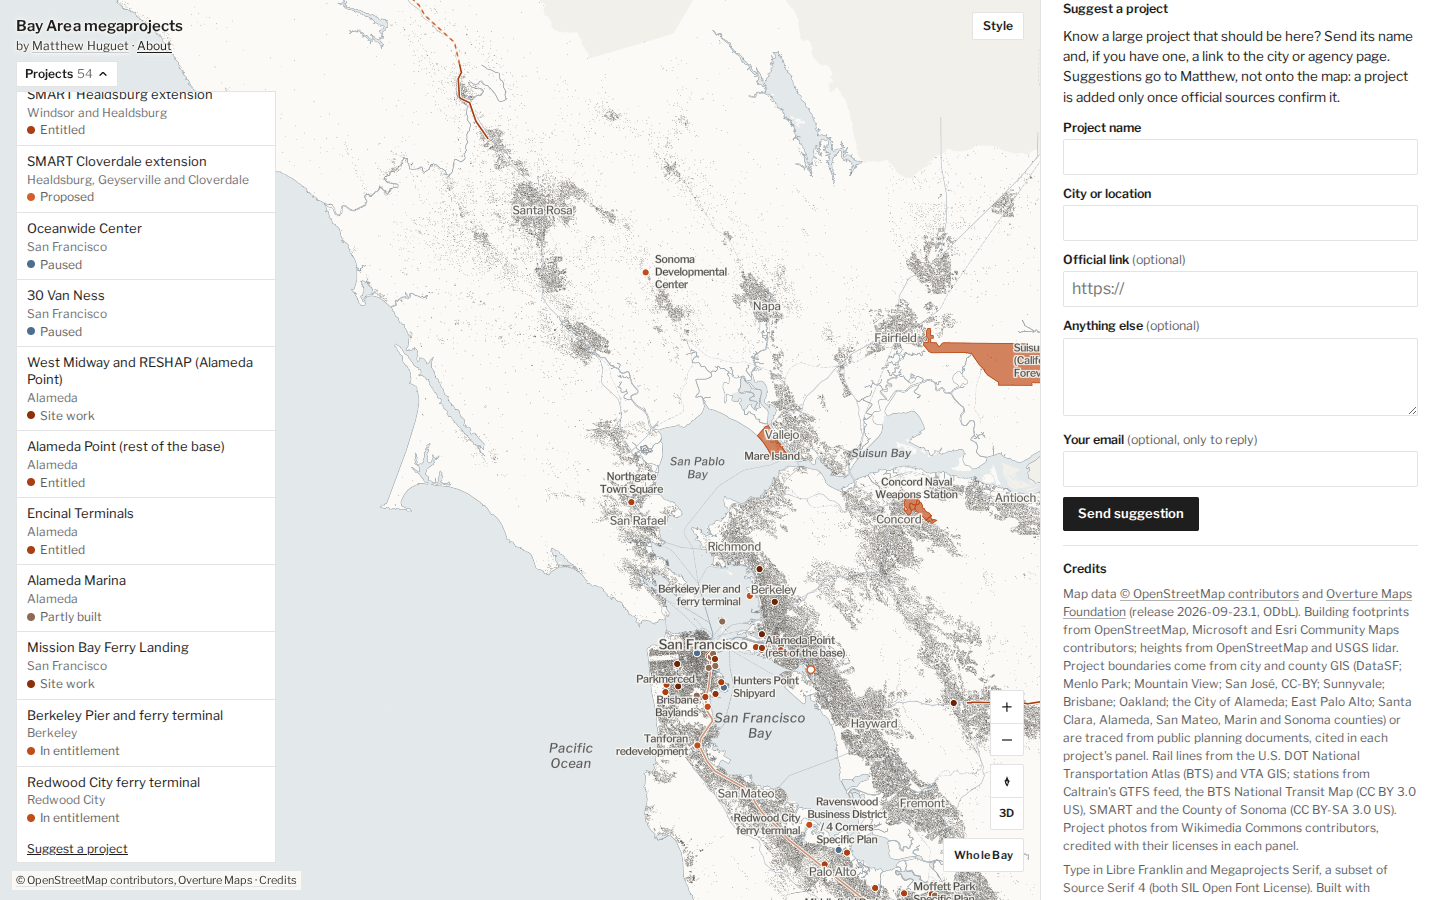
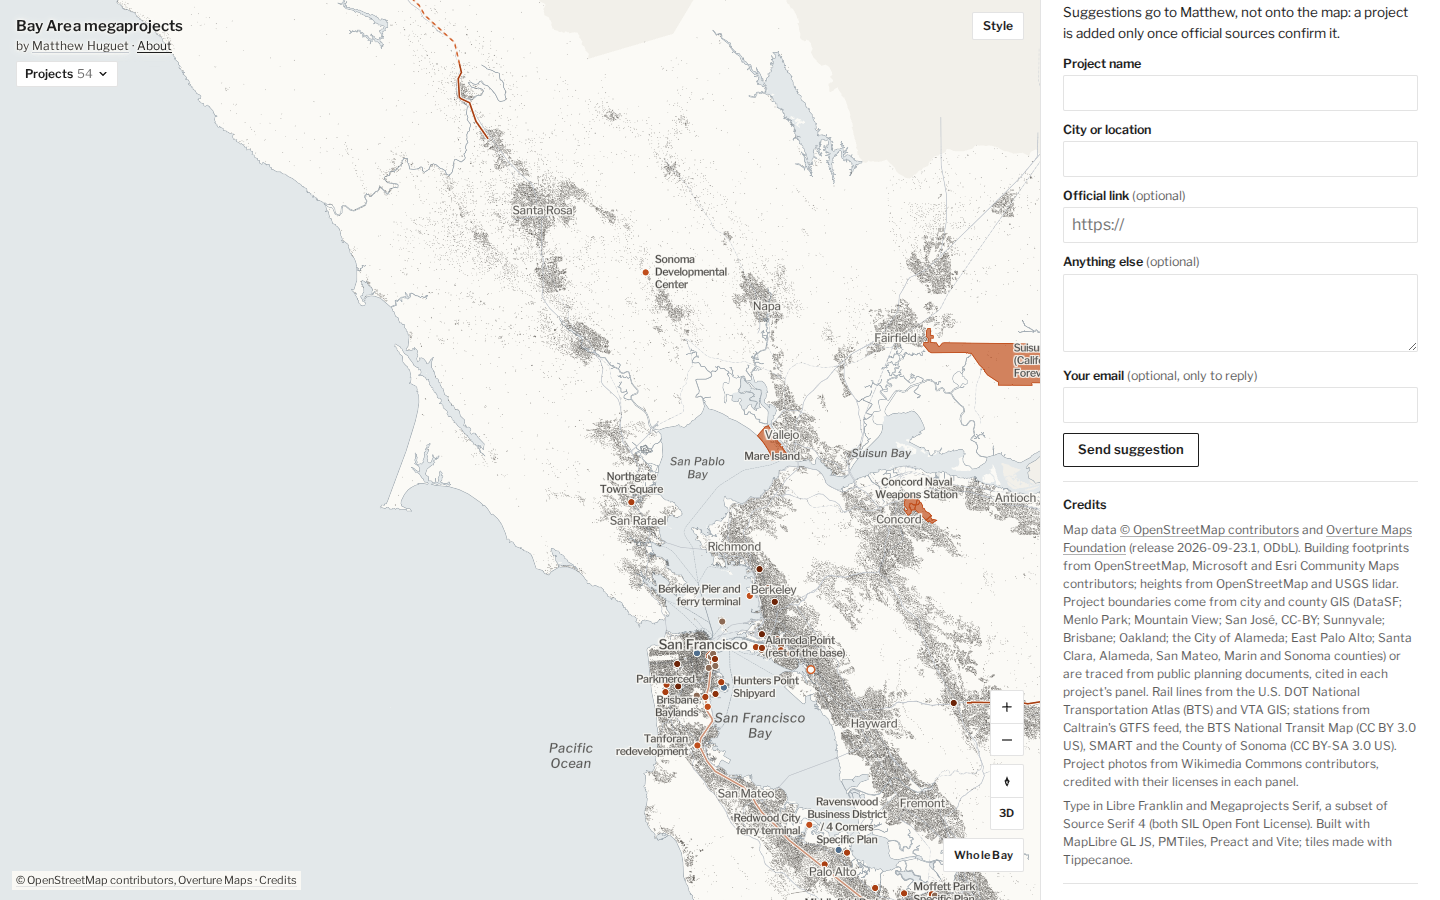
Make the suggestion form's button outlined
Matthew asked for an outlined button rather than a filled one: panel background, panel-text
border and label, with a faint hover tint like the other panel controls. Screenshots updated.

Claude-Session: https://claude.ai/code/session_017ZKxMeUSMnFgMKvXnxv9zM

diff --git a/src/styles.css b/src/styles.css
@@ -999,9 +999,13 @@ body {
   padding: 8px 14px;
   border: 1px solid var(--color-panel-text);
   border-radius: 2px;
-  background: var(--color-panel-text);
-  color: var(--color-panel-background);
+  background: var(--color-panel-background);
+  color: var(--color-panel-text);
   cursor: pointer;
+}
+
+.suggest-form button:hover:not(:disabled) {
+  background: color-mix(in srgb, var(--color-panel-rule) 45%, transparent);
 }
 
 .suggest-form button:disabled {
